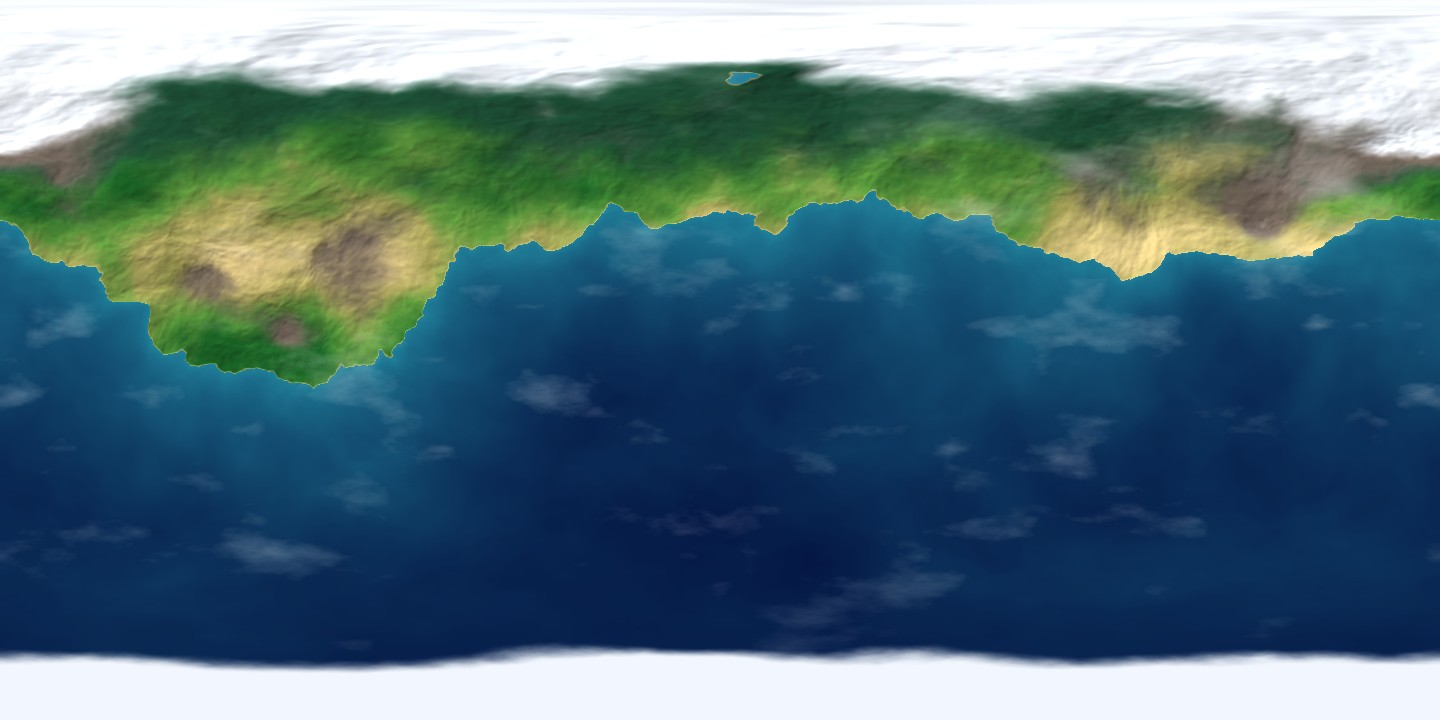
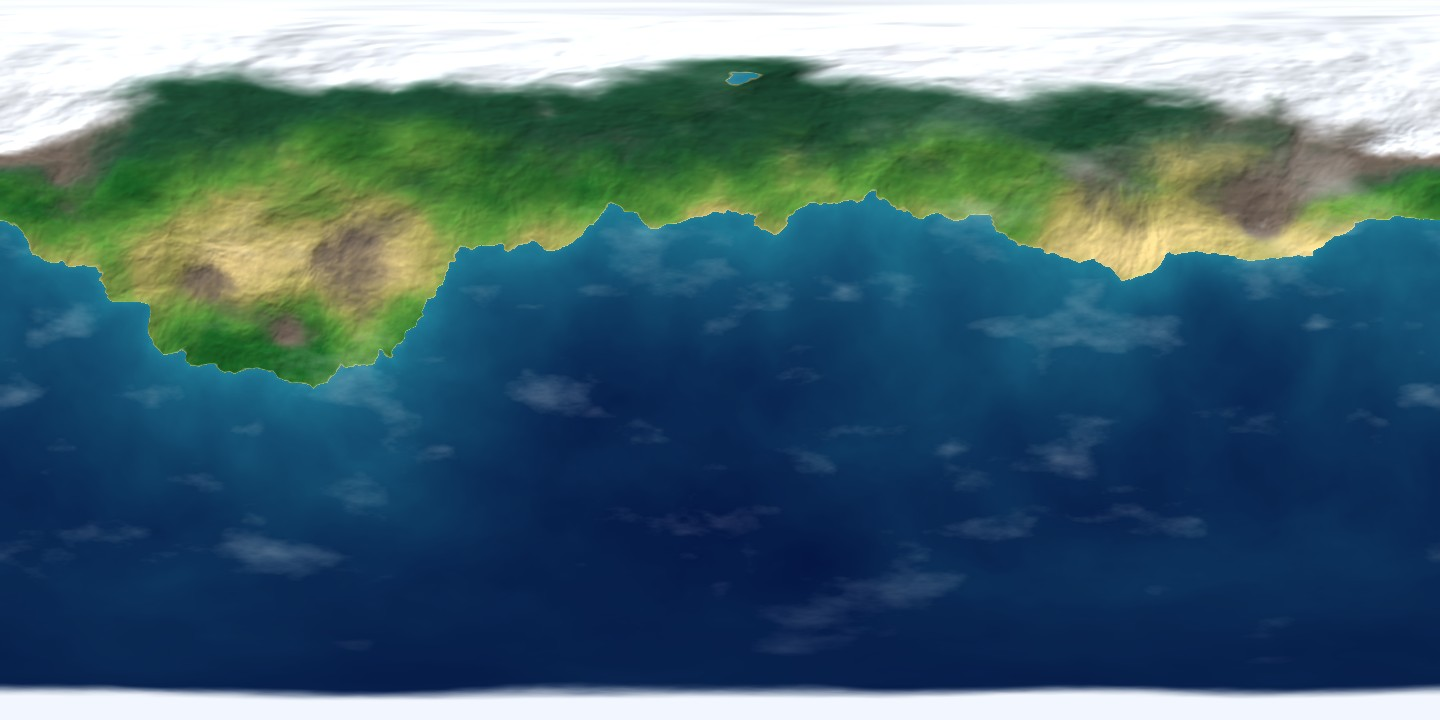
Earth-like worlds 40, 41 and 42 with smaller polar ice caps; 43 and 44 keep their previous maps for now.
revival

Changed region(s): [[0.0, 0.8861, 1.0, 0.9778], [0.4375, 0.0611, 0.5625, 0.0917]]

diff --git a/tools/generer-terre.py b/tools/generer-terre.py
@@ -50,11 +50,11 @@ FISSURE_EPAISSEUR = 0.035
 FISSURE_FORCE = 0.55
 
 MONDES = (
-    {'numero': 40, 'graine': 4011, 'terres': 0.3, 'frequence': 0.9, 'nord': 0.35, 'equateur': 0.0, 'froid': 0.0, 'aridite': 0.0, 'nuages': 0.5},
-    {'numero': 41, 'glace_variee': True, 'graine': 4177, 'terres': 0.33, 'frequence': 1.7, 'nord': 0.0, 'equateur': 0.0, 'froid': 0.0, 'aridite': 0.05, 'nuages': 0.55},
-    {'numero': 42, 'glace_variee': True, 'graine': 4293, 'terres': 0.14, 'frequence': 2.6, 'nord': 0.0, 'equateur': 0.1, 'froid': 0.05, 'aridite': -0.05, 'nuages': 0.6},
-    {'numero': 43, 'glace_variee': True, 'graine': 4351, 'terres': 0.38, 'frequence': 1.3, 'nord': 0.0, 'equateur': 0.55, 'froid': 0.0, 'aridite': -0.05, 'nuages': 0.5},
-    {'numero': 44, 'graine': 4466, 'terres': 0.35, 'frequence': 1.4, 'nord': 0.15, 'equateur': 0.0, 'froid': 0.28, 'aridite': -0.1, 'nuages': 0.45},
+    {'numero': 40, 'reduction_glace': 9.0, 'graine': 4011, 'terres': 0.3, 'frequence': 0.9, 'nord': 0.35, 'equateur': 0.0, 'froid': 0.0, 'aridite': 0.0, 'nuages': 0.5},
+    {'numero': 41, 'reduction_glace': 9.0, 'glace_variee': True, 'graine': 4177, 'terres': 0.33, 'frequence': 1.7, 'nord': 0.0, 'equateur': 0.0, 'froid': 0.0, 'aridite': 0.05, 'nuages': 0.55},
+    {'numero': 42, 'reduction_glace': 9.0, 'glace_variee': True, 'graine': 4293, 'terres': 0.14, 'frequence': 2.6, 'nord': 0.0, 'equateur': 0.1, 'froid': 0.05, 'aridite': -0.05, 'nuages': 0.6},
+    {'numero': 43, 'reduction_glace': 9.0, 'glace_variee': True, 'graine': 4351, 'terres': 0.38, 'frequence': 1.3, 'nord': 0.0, 'equateur': 0.55, 'froid': 0.0, 'aridite': -0.05, 'nuages': 0.5},
+    {'numero': 44, 'reduction_glace': 9.0, 'graine': 4466, 'terres': 0.35, 'frequence': 1.4, 'nord': 0.15, 'equateur': 0.0, 'froid': 0.28, 'aridite': -0.1, 'nuages': 0.45},
     {'numero': 45, 'glace_variee': True, 'graine': 4589, 'terres': 0.33, 'frequence': 1.2, 'nord': 0.0, 'equateur': 0.0, 'froid': -0.05, 'aridite': 0.3, 'nuages': 0.3},
 )
 
@@ -124,10 +124,10 @@ def etape(valeurs, debut, fin):
     return lisser(numpy.clip((valeurs - debut) / (fin - debut), 0.0, 1.0))
 
 
-def glace_variee(couleurs, points, latitude, graine):
+def glace_variee(couleurs, points, latitude, graine, reduction):
     forme_lente = fractal(points, 2.2, graine + 2300) - 0.5
     forme_fine = fractal(points, 7.0, graine + 2400) - 0.5
-    limite = LATITUDE_CALOTTE - 4.0 + BORD_AMPLITUDE_LENT * 2 * forme_lente + BORD_AMPLITUDE_FIN * 2 * forme_fine
+    limite = LATITUDE_CALOTTE + reduction - 4.0 + BORD_AMPLITUDE_LENT * 2 * forme_lente + BORD_AMPLITUDE_FIN * 2 * forme_fine
     distance_pole = numpy.abs(latitude) - limite
     banquise = fractal(points, 9.0, graine + 2500)
     morceaux = etape(banquise, 0.5, 0.58) * etape(distance_pole, -BANQUISE_LARGEUR, 0.0)
@@ -176,10 +176,10 @@ def monde(parametres):
     couleurs = numpy.where(sur_terre[..., None], terre, mer_couleur)
 
     if parametres.get('glace_variee'):
-        couleurs = glace_variee(couleurs, points, latitude, graine)
+        couleurs = glace_variee(couleurs, points, latitude, graine, parametres.get('reduction_glace', 0.0))
     else:
         bruit_calotte = fractal(points, 4.0, graine + 2300) - 0.5
-        calotte = etape(numpy.abs(latitude) + FLOU_CALOTTE * bruit_calotte * 2, LATITUDE_CALOTTE, LATITUDE_CALOTTE + 4.0)
+        calotte = etape(numpy.abs(latitude) + FLOU_CALOTTE * bruit_calotte * 2, LATITUDE_CALOTTE + parametres.get('reduction_glace', 0.0), LATITUDE_CALOTTE + parametres.get('reduction_glace', 0.0) + 4.0)
         couleurs = melange(couleurs, NEIGE, calotte)
 
     gradient_y, gradient_x = numpy.gradient(altitude)

diff --git a/SUIVI.md b/SUIVI.md
@@ -2,7 +2,9 @@
 
 ## À faire
 
-Rien en attente.
+### 1. Remplacer les mondes 40 à 44 par des versions affinées (26/11)
+
+Ta phrase : « traite celles que tu as et on remplacera pr les ameliorer apres ». Publié : 40, 41 et 42 avec calottes réduites ; 43 et 44 gardent leurs anciennes versions (« on attend plus »). À faire quand la limite Gemini est levée : affiner chaque monde avec sa carte en référence et un prompt qui atténue la glace, puis réimporter sous le même numéro.
 
 ## Questions en suspens
 
